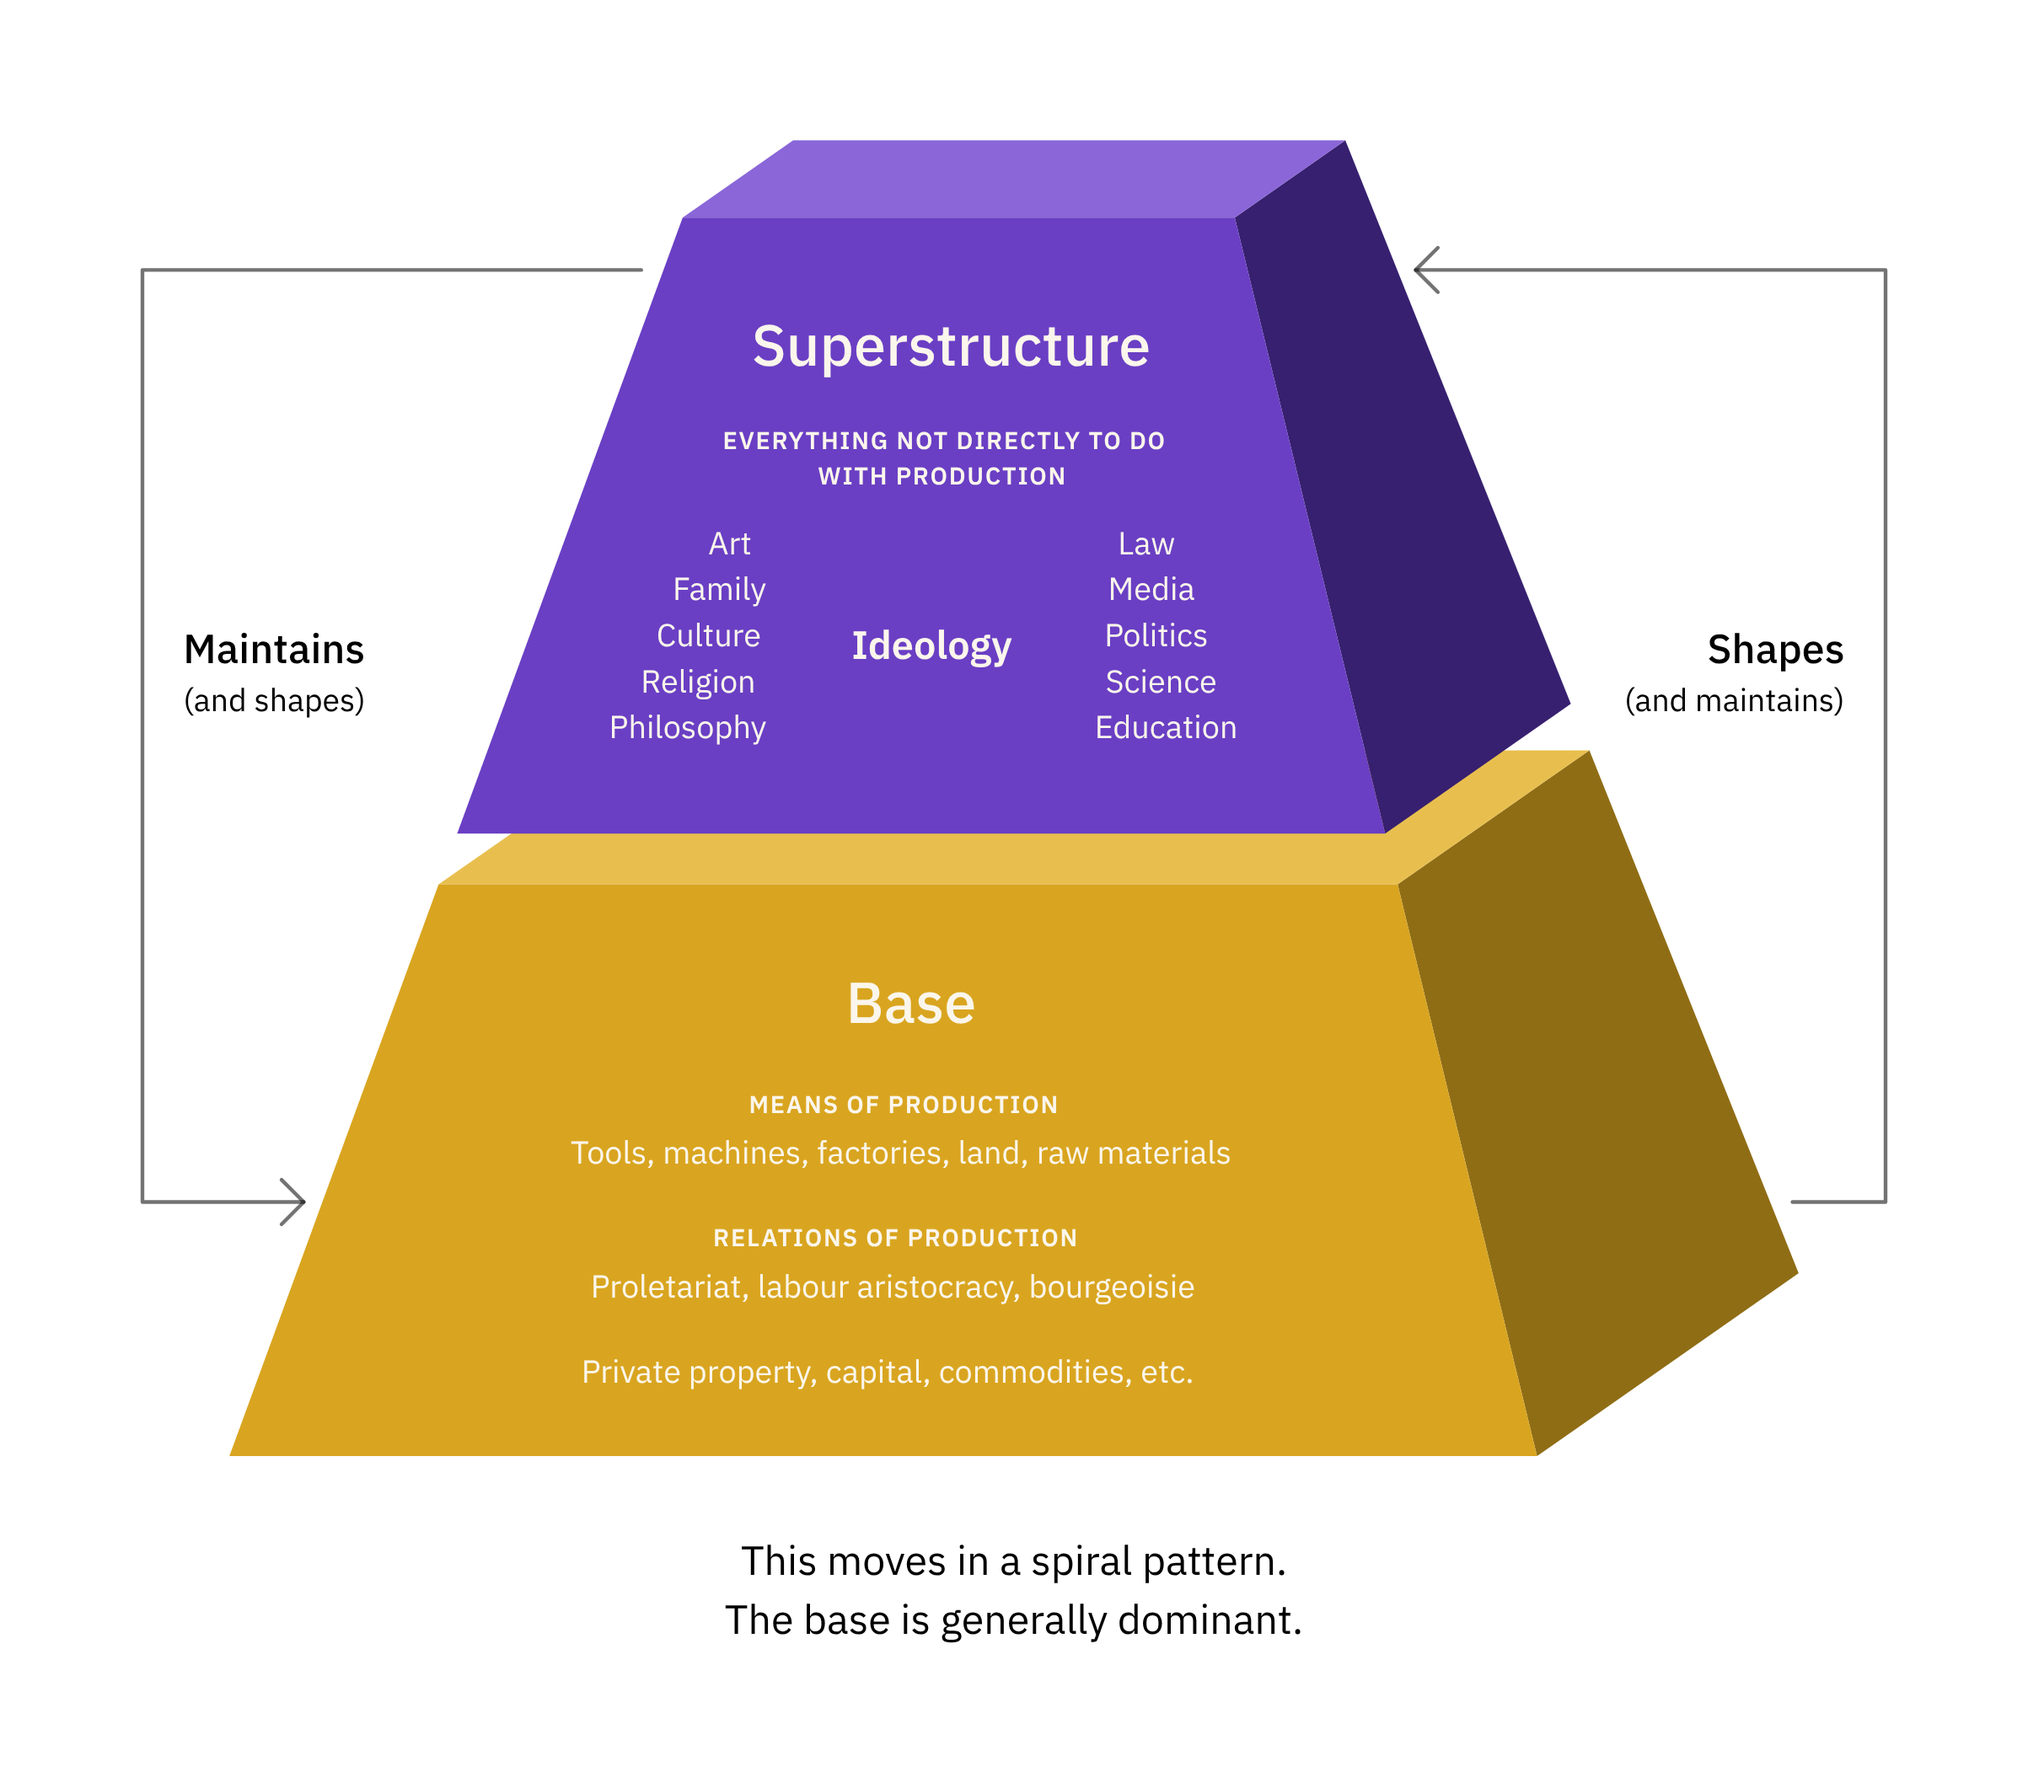
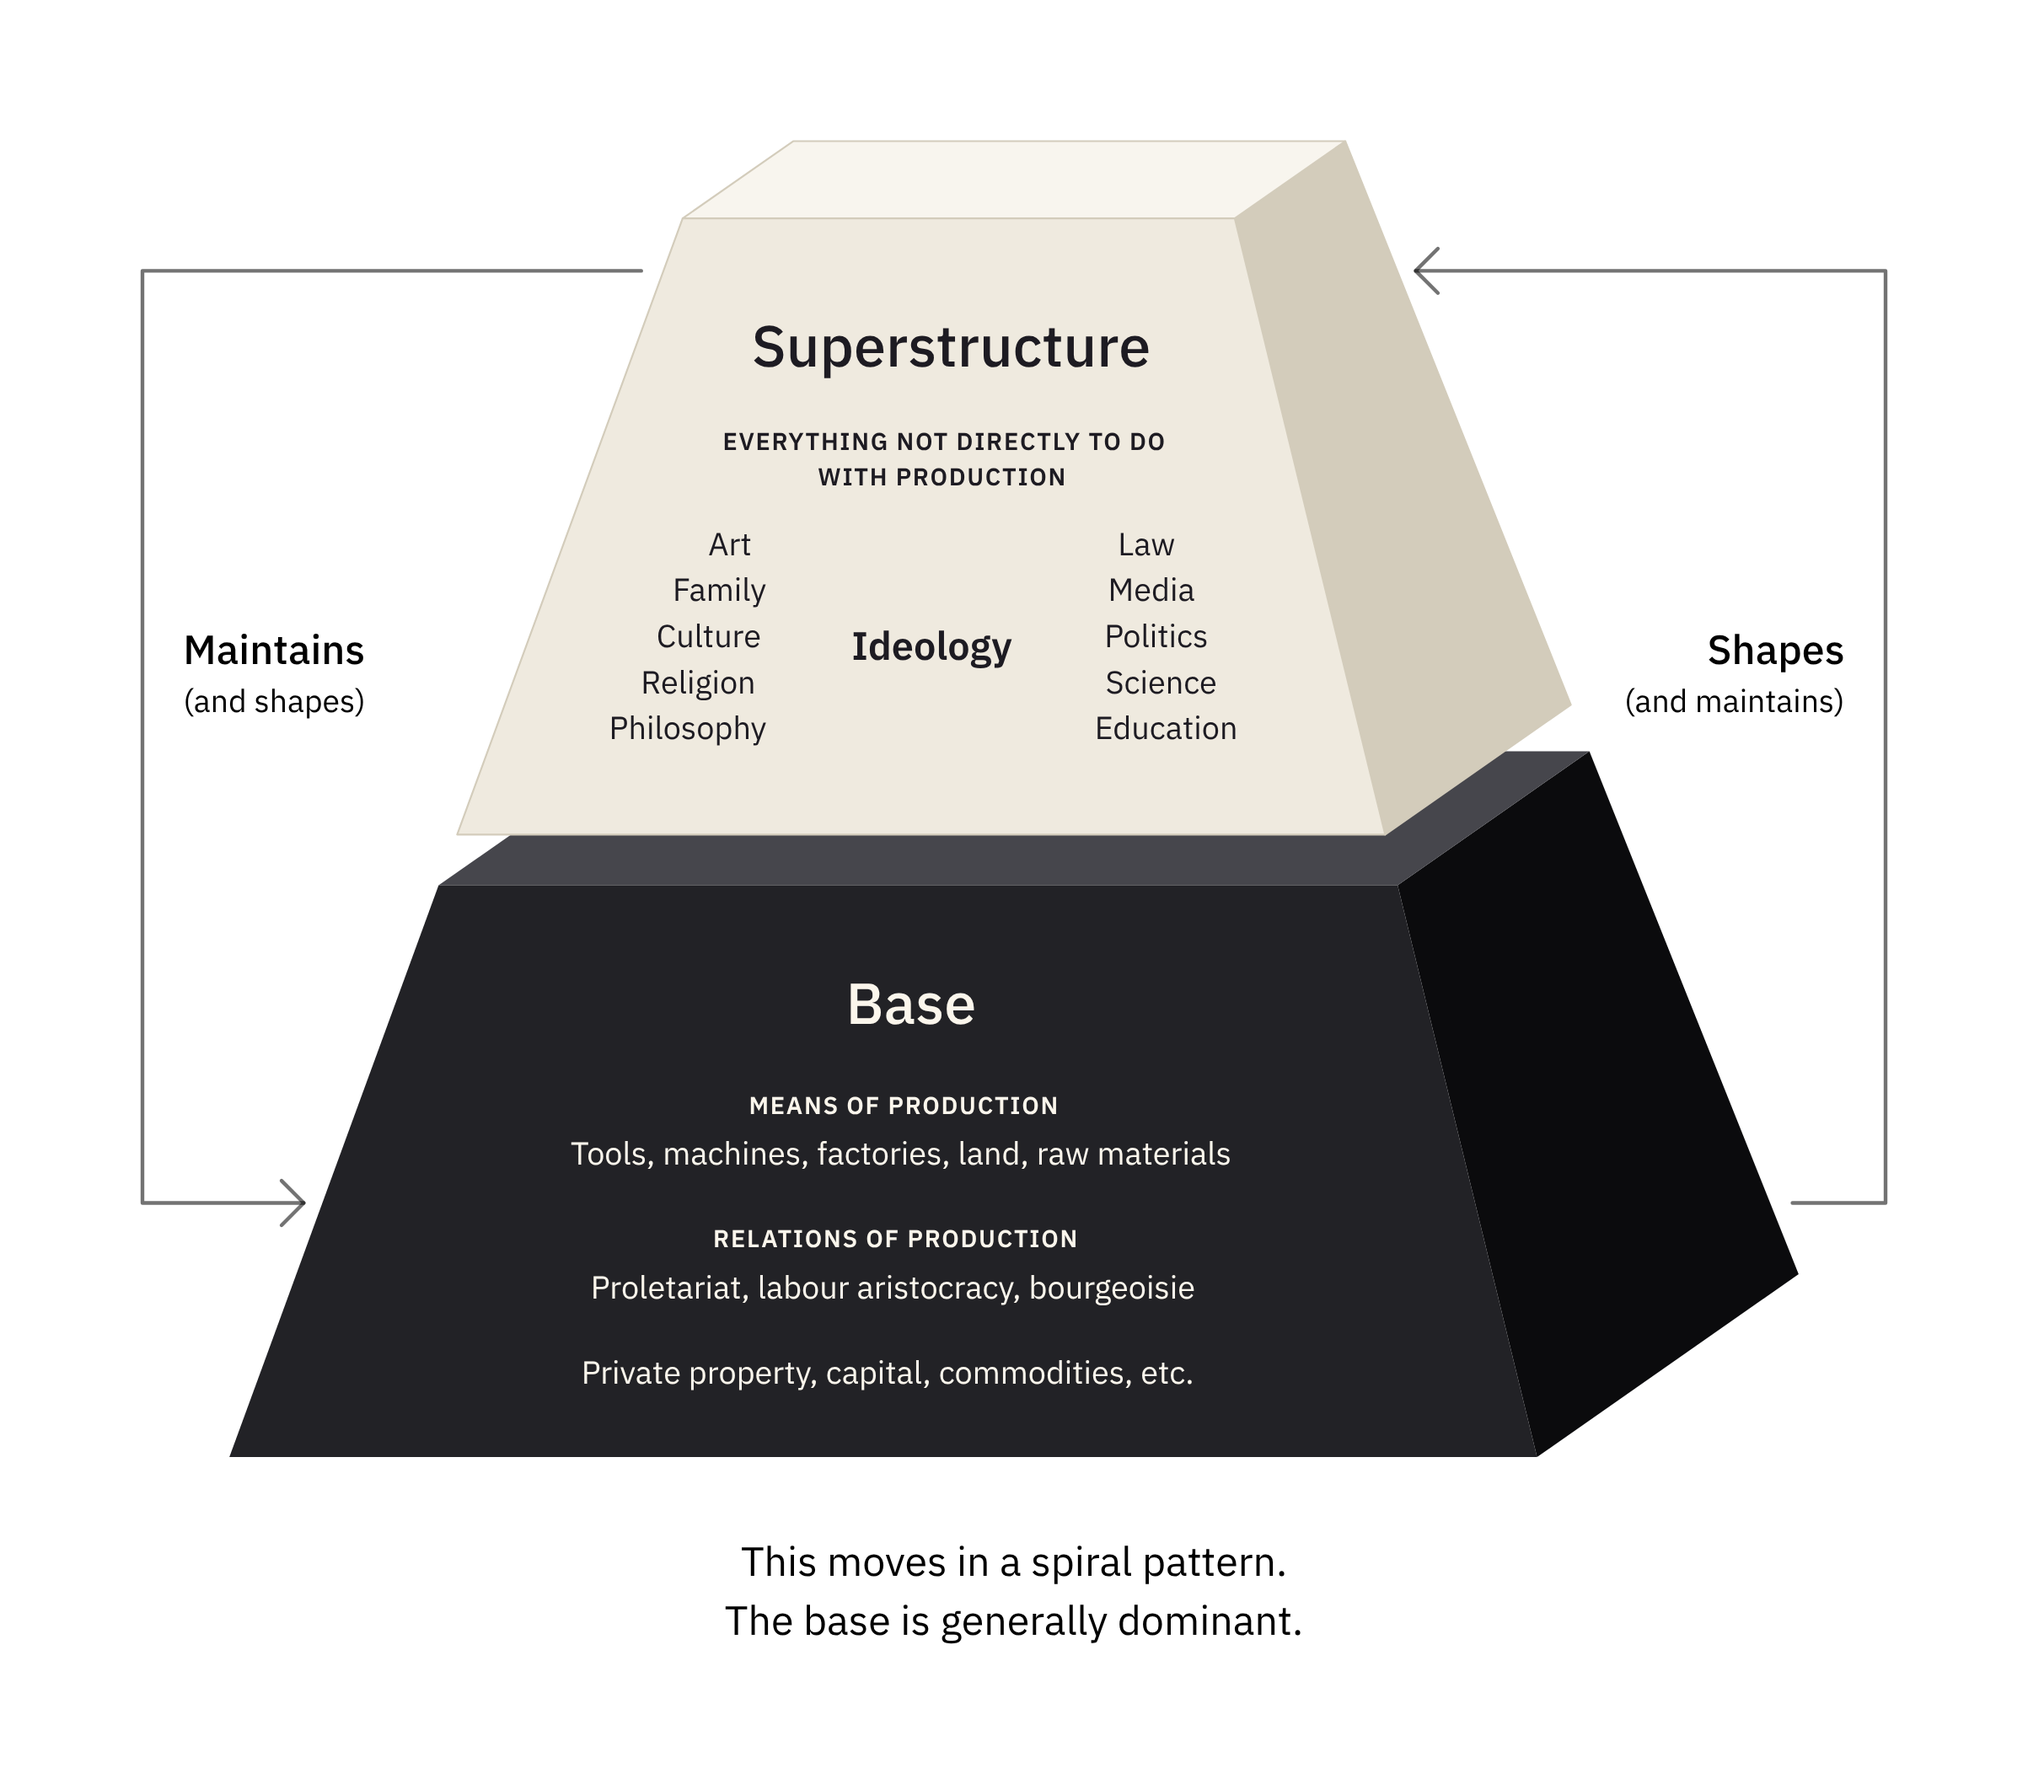
Base-Superstructure diagram: black base, off-white superstructure
Claude-Session: https://claude.ai/code/session_01LgHoU9QwZ5ZurXZhgzwbWe

diff --git a/diagram/index.html b/diagram/index.html
@@ -2011,6 +2011,18 @@
       fill: #fbf6ec;
     }
 
+    /* (the superstructure off white, its writing dark; its edges drawn
+       in faintly, so it holds its shape against the page) */
+    .marx-fig .mf-title.mf-dark {
+      fill: #1d1b22;
+    }
+
+    .marx-fig .mf-super polygon {
+      stroke: #d3ccbb;
+      stroke-width: 1.2;
+      stroke-linejoin: round;
+    }
+
     .marx-fig .mf-head {
       font-family: 'IBM Plex Sans', sans-serif;
       font-size: 16px;
@@ -3878,23 +3890,23 @@
           <path class="mf-line" d="M828.6 260.9 L816.6 272.9 L828.6 284.9"/>
           </g>
           <g transform="matrix(0.82 0 0 0.82 108.0 100.8)">
-          <g class="mf-tier mf-base"><polygon class="f-side" fill="#8f6d15" points="944.0,990.2 1116.0,869.8 978.4,525.9 852.3,614.1"/><polygon class="f-top" fill="#e8bf4f" points="221.6,614.1 852.3,614.1 978.4,525.9 347.7,525.9"/><polygon class="f-body" fill="#d9a520" points="84.0,990.2 944.0,990.2 852.3,614.1 221.6,614.1"/></g>
-          <g class="mf-tier mf-super"><polygon class="f-side" fill="#37206f" points="844.1,580.7 966.2,495.3 817.9,124.6 745.2,175.4"/><polygon class="f-top" fill="#8a66d8" points="382.1,175.4 745.2,175.4 817.9,124.6 454.8,124.6"/><polygon class="f-body" fill="#6a3fc4" points="233.8,580.7 844.1,580.7 745.2,175.4 382.1,175.4"/></g>
+          <g class="mf-tier mf-base"><polygon class="f-side" fill="#0b0b0d" points="944.0,990.2 1116.0,869.8 978.4,525.9 852.3,614.1"/><polygon class="f-top" fill="#46464c" points="221.6,614.1 852.3,614.1 978.4,525.9 347.7,525.9"/><polygon class="f-body" fill="#222226" points="84.0,990.2 944.0,990.2 852.3,614.1 221.6,614.1"/></g>
+          <g class="mf-tier mf-super"><polygon class="f-side" fill="#d3ccbb" points="844.1,580.7 966.2,495.3 817.9,124.6 745.2,175.4"/><polygon class="f-top" fill="#f8f5ee" points="382.1,175.4 745.2,175.4 817.9,124.6 454.8,124.6"/><polygon class="f-body" fill="#efeadf" points="233.8,580.7 844.1,580.7 745.2,175.4 382.1,175.4"/></g>
           <g class="mf-words">
-          <text class="mf-title" x="558.7" y="272.9" text-anchor="middle">Superstructure</text>
-          <text class="mf-head" x="554.4" y="327.9" text-anchor="middle" fill="#fbf6ec">Everything not directly to do</text>
-          <text class="mf-head" x="553.0" y="350.9" text-anchor="middle" fill="#fbf6ec">with production</text>
-          <text class="mf-item" x="413.2" y="396.9" text-anchor="middle" fill="#fbf6ec">Art</text>
-          <text class="mf-item" x="406.3" y="427.2" text-anchor="middle" fill="#fbf6ec">Family</text>
-          <text class="mf-item" x="399.3" y="457.5" text-anchor="middle" fill="#fbf6ec">Culture</text>
-          <text class="mf-item" x="392.4" y="487.8" text-anchor="middle" fill="#fbf6ec">Religion</text>
-          <text class="mf-item" x="385.5" y="518.0" text-anchor="middle" fill="#fbf6ec">Philosophy</text>
-          <text class="mf-item" x="687.2" y="396.9" text-anchor="middle" fill="#fbf6ec">Law</text>
-          <text class="mf-item" x="690.4" y="427.2" text-anchor="middle" fill="#fbf6ec">Media</text>
-          <text class="mf-item" x="693.6" y="457.5" text-anchor="middle" fill="#fbf6ec">Politics</text>
-          <text class="mf-item" x="696.9" y="487.8" text-anchor="middle" fill="#fbf6ec">Science</text>
-          <text class="mf-item" x="700.1" y="518.0" text-anchor="middle" fill="#fbf6ec">Education</text>
-          <text class="mf-key" x="546.0" y="465.8" text-anchor="middle" fill="#fbf6ec">Ideology</text>
+          <text class="mf-title mf-dark" x="558.7" y="272.9" text-anchor="middle">Superstructure</text>
+          <text class="mf-head" x="554.4" y="327.9" text-anchor="middle" fill="#1d1b22">Everything not directly to do</text>
+          <text class="mf-head" x="553.0" y="350.9" text-anchor="middle" fill="#1d1b22">with production</text>
+          <text class="mf-item" x="413.2" y="396.9" text-anchor="middle" fill="#1d1b22">Art</text>
+          <text class="mf-item" x="406.3" y="427.2" text-anchor="middle" fill="#1d1b22">Family</text>
+          <text class="mf-item" x="399.3" y="457.5" text-anchor="middle" fill="#1d1b22">Culture</text>
+          <text class="mf-item" x="392.4" y="487.8" text-anchor="middle" fill="#1d1b22">Religion</text>
+          <text class="mf-item" x="385.5" y="518.0" text-anchor="middle" fill="#1d1b22">Philosophy</text>
+          <text class="mf-item" x="687.2" y="396.9" text-anchor="middle" fill="#1d1b22">Law</text>
+          <text class="mf-item" x="690.4" y="427.2" text-anchor="middle" fill="#1d1b22">Media</text>
+          <text class="mf-item" x="693.6" y="457.5" text-anchor="middle" fill="#1d1b22">Politics</text>
+          <text class="mf-item" x="696.9" y="487.8" text-anchor="middle" fill="#1d1b22">Science</text>
+          <text class="mf-item" x="700.1" y="518.0" text-anchor="middle" fill="#1d1b22">Education</text>
+          <text class="mf-key" x="546.0" y="465.8" text-anchor="middle" fill="#1d1b22">Ideology</text>
           <text class="mf-title" x="532.3" y="705.4" text-anchor="middle">Base</text>
           <text class="mf-head" x="527.8" y="764.6" text-anchor="middle" fill="#fbf6ec">Means of production</text>
           <text class="mf-item" x="525.7" y="798.0" text-anchor="middle" fill="#fbf6ec">Tools, machines, factories, land, raw materials</text>
@@ -5007,7 +5019,7 @@
         var link = view.querySelector('.model-save');
         var files = {
           stack: [link.getAttribute('href'), link.getAttribute('download')],
-          diagram: ['../assets/downloads/base-superstructure-diagram.png?v=1d36a542', 'Classical Marxism - Base and Superstructure.png']
+          diagram: ['../assets/downloads/base-superstructure-diagram.png?v=c0c85b80', 'Classical Marxism - Base and Superstructure.png']
         };
         view.querySelectorAll('.model-modes button').forEach(function (b) {
           b.addEventListener('click', function () {

diff --git a/tools/make-marx-pyramid.py b/tools/make-marx-pyramid.py
@@ -27,7 +27,8 @@ def tier(y0, y1, band, c):
     return ''.join(out)
 def mid(y):           # the centre of the front face, on screen, at height y
     h = hw(y); return P(0, y, h)
-V = ('#6a3fc4', '#4f2d9c', '#8a66d8', '#37206f'); G = ('#d9a520', '#a87d12', '#e8bf4f', '#8f6d15')
+# the superstructure off white, the base black
+V = ('#efeadf', '#e2dccd', '#f8f5ee', '#d3ccbb'); G = ('#222226', '#18181b', '#46464c', '#0b0b0d')
 B0, B1 = 0, 360; S0, S1 = 392, 780; BAND = 66
 svg = ['<svg class="marx-fig" viewBox="0 150 1200 900" role="img" aria-label="The base and the superstructure as two sections of a pyramid, the superstructure above: the superstructure, everything not directly to do with production, maintains (and shapes) the base; the base, the means and relations of production, shapes (and maintains) the superstructure; this moves in a spiral pattern, and the base is generally dominant">']
 # the relations: plain lines with open arrowheads, mirroring each other -
@@ -59,20 +60,20 @@ def text(cls, y, s, fill=None, dx=0, anchor='middle', dy=0):
     x, yy = mid(y)
     f = (' fill="%s"' % fill) if fill else ''
     return '<text class="%s" x="%.1f" y="%.1f" text-anchor="%s"%s>%s</text>' % (cls, x + dx, yy + dy, anchor, f, s)
-W = '#fbf6ec'; INK = W
+D = '#1d1b22'; W = '#fbf6ec'; INK = W
 # (the writing set lower on each face, centred in it top to bottom)
 DS, DB = 46, 40
 # the superstructure's face
-svg.append(text('mf-title', S1 - DS - BAND / 2, 'Superstructure', dy=15))
-svg.append(text('mf-head', S1 - DS - BAND - 34, 'Everything not directly to do', W))
-svg.append(text('mf-head', S1 - DS - BAND - 56, 'with production', W))
+svg.append(text('mf-title mf-dark', S1 - DS - BAND / 2, 'Superstructure', dy=15))
+svg.append(text('mf-head', S1 - DS - BAND - 34, 'Everything not directly to do', D))
+svg.append(text('mf-head', S1 - DS - BAND - 56, 'with production', D))
 for i, w in enumerate(['Art', 'Family', 'Culture', 'Religion', 'Philosophy']):
     yy = S1 - DS - BAND - 100 - i * 29
-    svg.append(text('mf-item', yy, w, W, dx=-hw(yy) * 0.55))
+    svg.append(text('mf-item', yy, w, D, dx=-hw(yy) * 0.55))
 for i, w in enumerate(['Law', 'Media', 'Politics', 'Science', 'Education']):
     yy = S1 - DS - BAND - 100 - i * 29
-    svg.append(text('mf-item', yy, w, W, dx=hw(yy) * 0.55))
-svg.append(text('mf-key', S1 - DS - BAND - 166, 'Ideology', W))
+    svg.append(text('mf-item', yy, w, D, dx=hw(yy) * 0.55))
+svg.append(text('mf-key', S1 - DS - BAND - 166, 'Ideology', D))
 # the base's face
 svg.append(text('mf-title', B1 - DB - BAND / 2, 'Base', dy=15))
 for (yy, cls, t) in [(B1 - DB - BAND - 38, 'mf-head', 'Means of production'), (B1 - DB - BAND - 70, 'mf-item', 'Tools, machines, factories, land, raw materials'),
